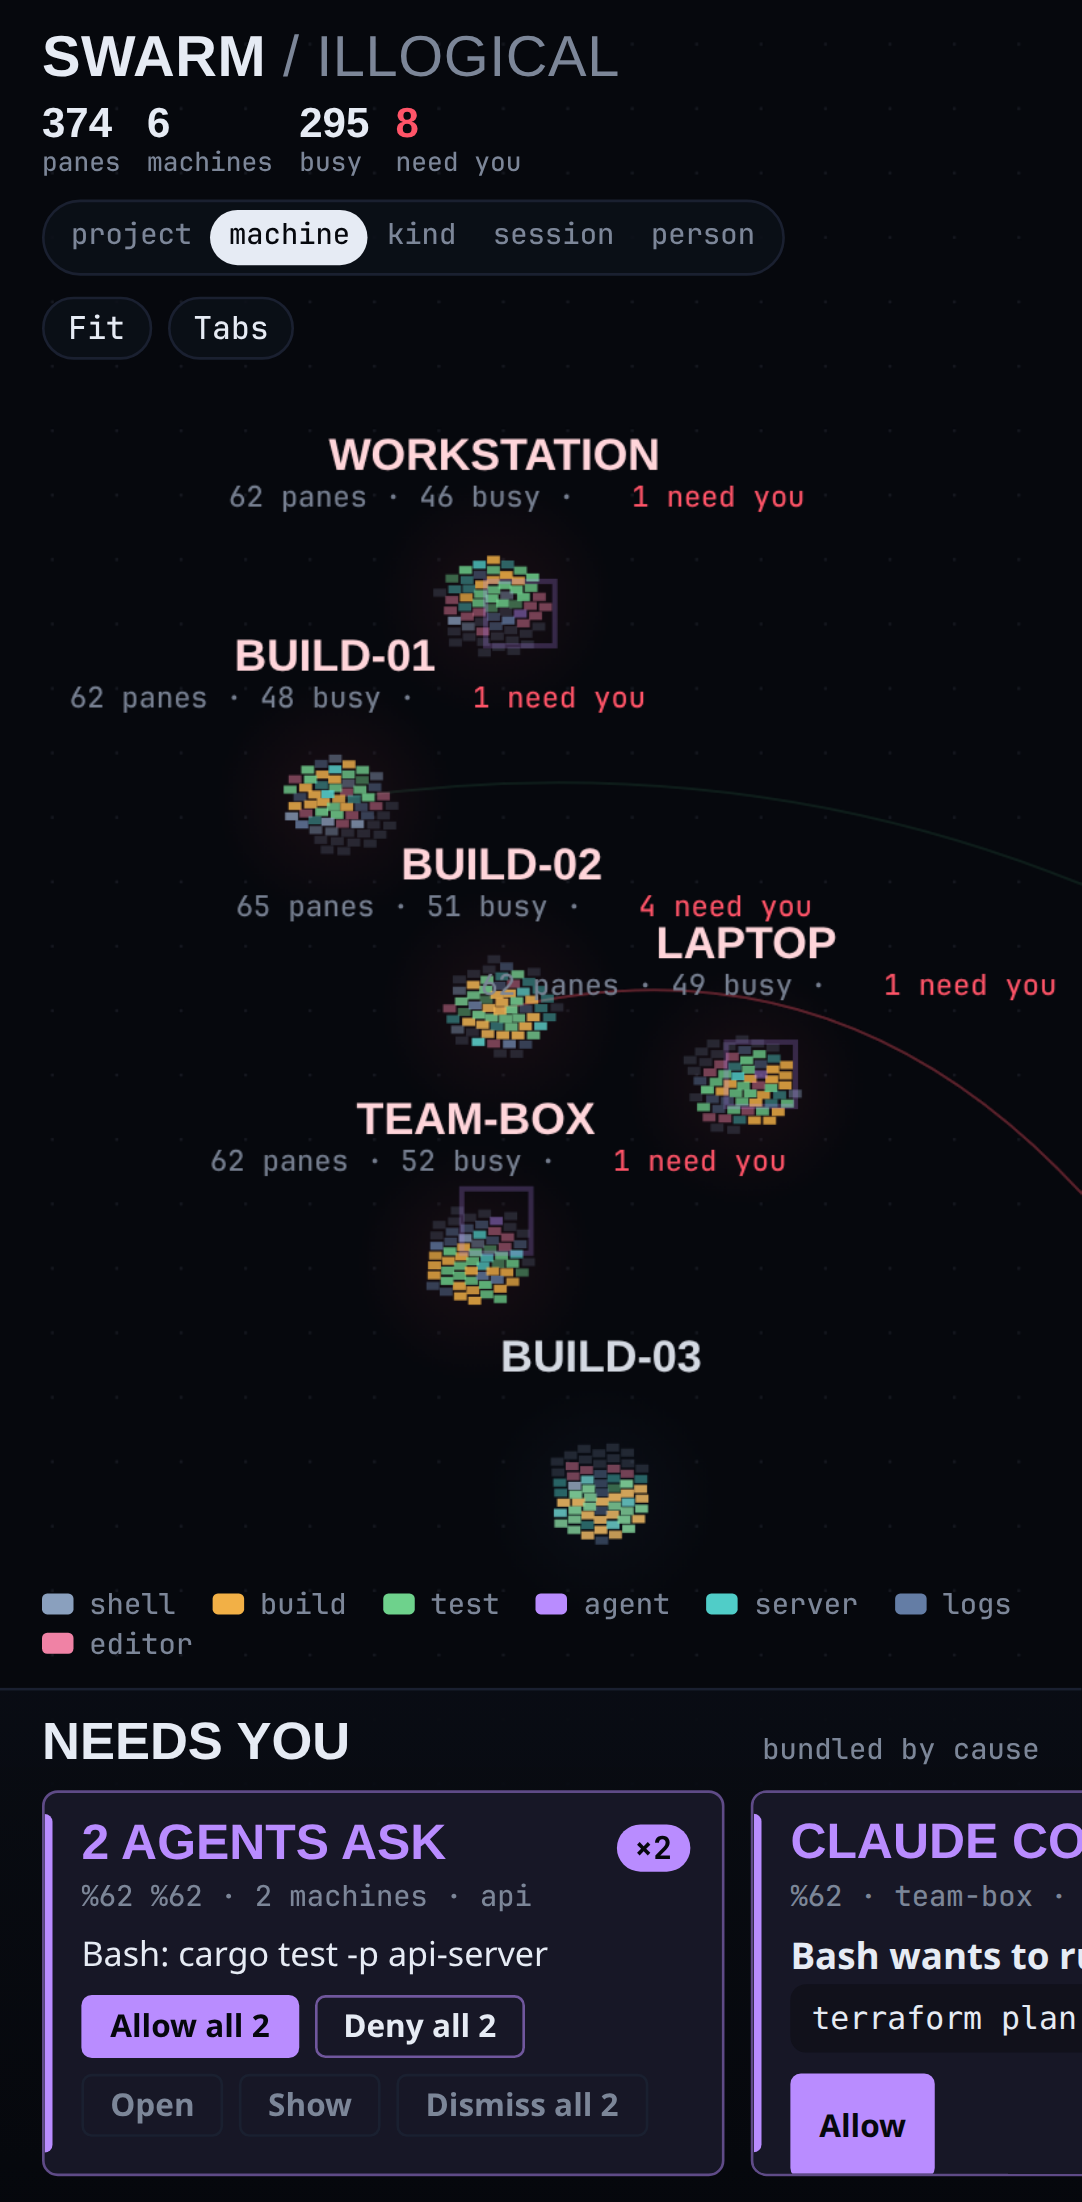
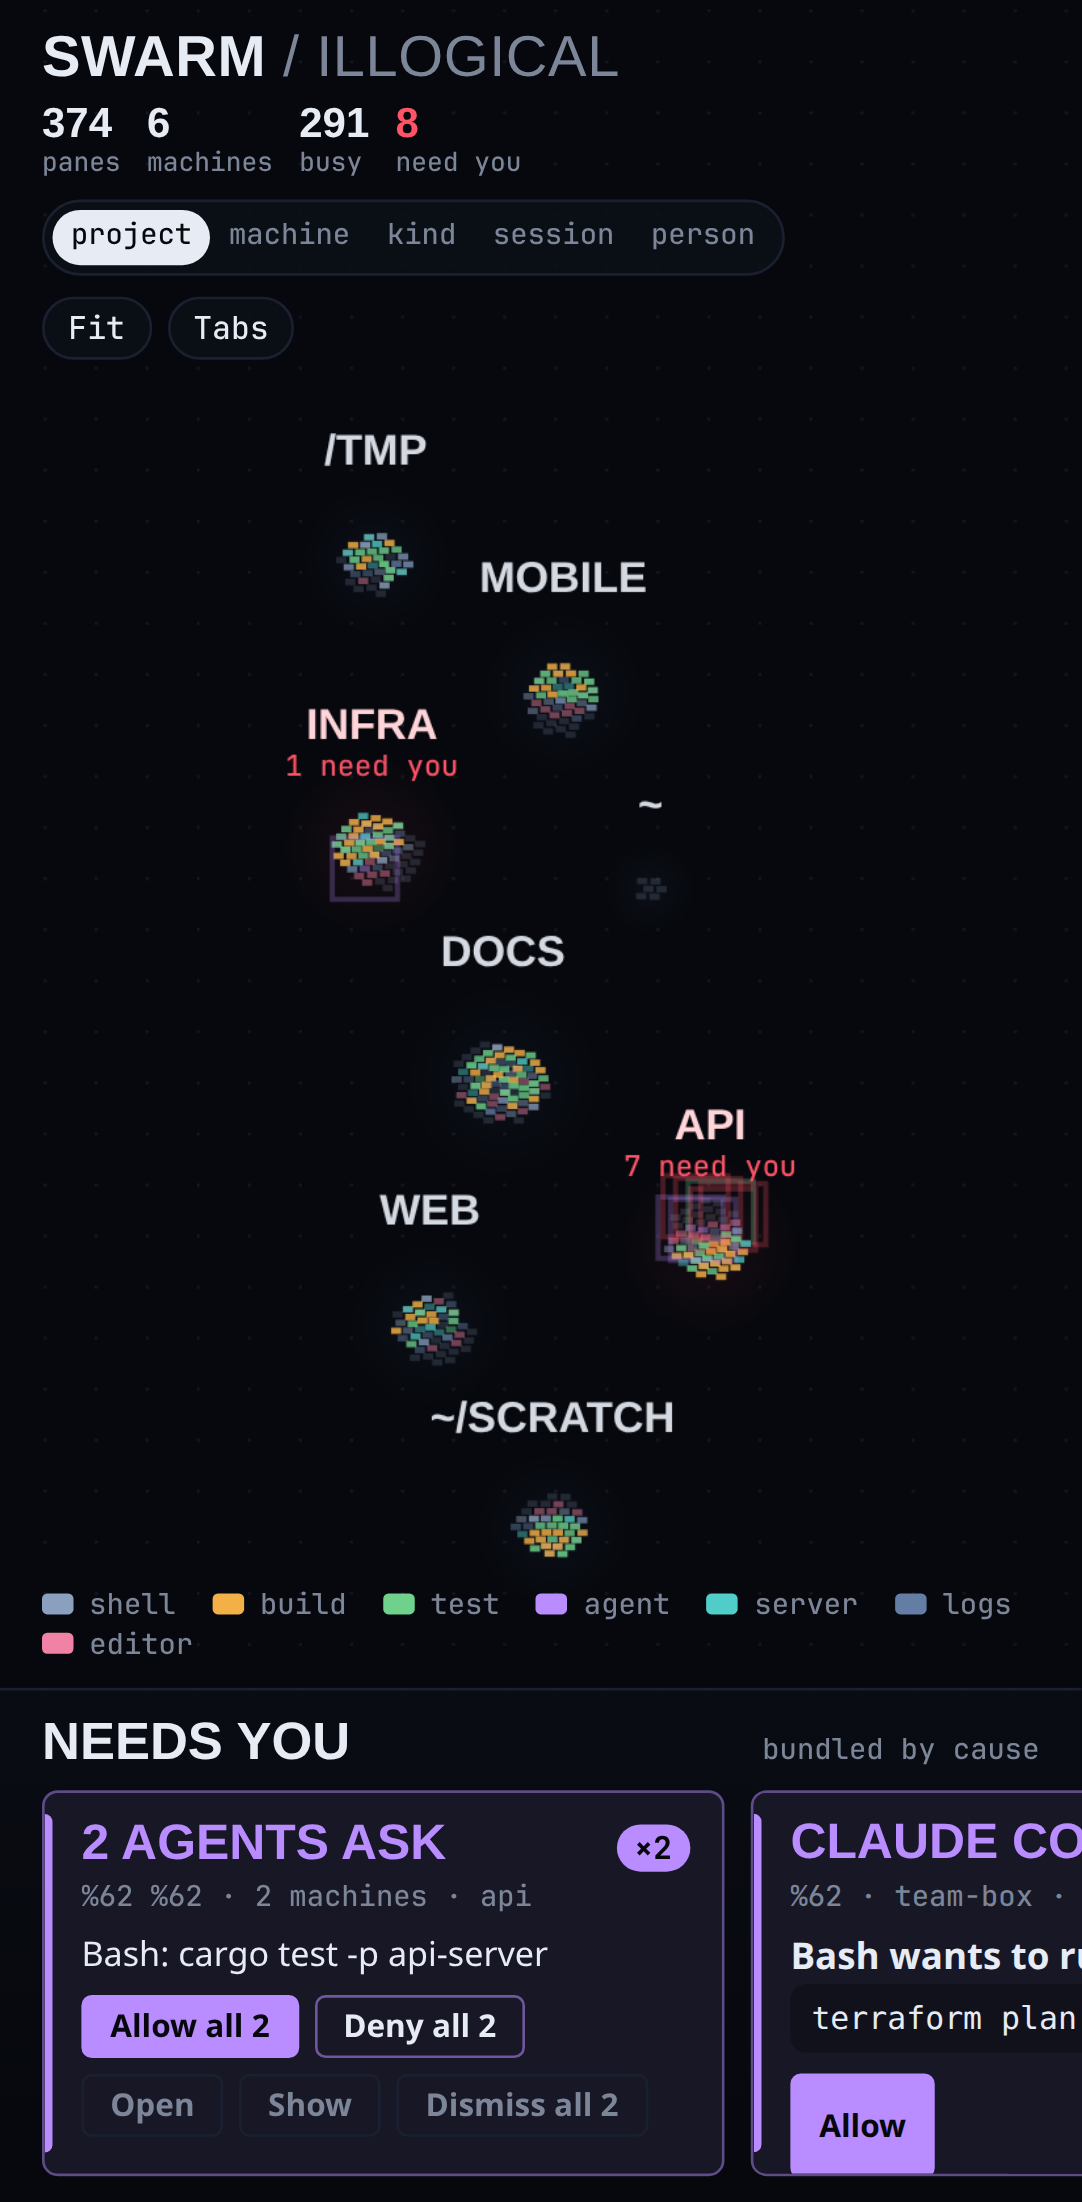
Swarm: cluster names never overlap on a narrow screen
On a phone held upright clusters stack close together, and their names
ran into each other (a cluster's counts over the next one's name, a
stats line lost under another). Each frame now places the names in turn,
those that need you and the biggest first: the full line, then without
"· N busy", then the name and "N need you", then the name alone, then
nudged up or down. Clicks on a name use the placed box. Upright, the
layout also leaves more room between clusters for their names.

e2e/swarm.spec.ts checks at a Pixel 7 viewport that no two names' boxes
intersect, by project and by machine, through a regroup and after it
settles, with the synthetic fleet crowding it. It fails on the old
drawing ("~/Downloads × dotfiles").

The phone screenshot is by project again. The fake fleet's cleanup
tolerates pane programs still writing as it removes its directory.

diff --git a/web/src/swarm/field.ts b/web/src/swarm/field.ts
@@ -72,6 +72,22 @@ const rnd = (a: number, b: number) => a + Math.random() * (b - a);
 const reduce = typeof matchMedia === "function" && matchMedia("(prefers-reduced-motion: reduce)").matches;
 
 /** Stub lengths for a tile's lines, steady per pane (no live text yet). */
+const META_FONT = `500 11px "JetBrains Mono", ui-monospace, monospace`;
+
+/** A cluster's name as drawn, and the box it takes on the screen. */
+interface Label {
+  name: string;
+  title: string;
+  meta: string;
+  needText: string;
+  need: number;
+  big: number;
+  metaW: number;
+  x: number;
+  y: number;
+  box: { x0: number; x1: number; y0: number; y1: number };
+}
+
 function stubs(key: string): number[] {
   let h = 2166136261;
   for (let i = 0; i < key.length; i++) h = Math.imul(h ^ key.charCodeAt(i), 16777619);
@@ -82,6 +98,8 @@ export class Field {
   private cx: CanvasRenderingContext2D;
   private tiles = new Map<string, Tile>();
   private groups = new Map<string, Group>();
+  /** Cluster names as last drawn. */
+  private labels: Label[] = [];
   private W = 0;
   private H = 0;
   private dpr = 1;
@@ -203,7 +221,9 @@ export class Field {
           const a = i * 2.39996 + d * 0.004;
           tx = Math.cos(a) * d * sx;
           ty = Math.sin(a) * d * sy;
-          if (placed.every((q) => Math.hypot(q.tx - tx, q.ty - ty) > q.r + r + 70)) break;
+          // Upright, names sit between clusters stacked above each other:
+          // leave room for them.
+          if (placed.every((q) => Math.hypot(q.tx - tx, q.ty - ty) > q.r + r + (tall ? 150 : 70))) break;
         }
       }
       let g = this.groups.get(name);
@@ -233,11 +253,22 @@ export class Field {
     return { x: s.x + r.left, y: s.y + r.top };
   }
 
+  /** Each cluster name's box on the page as last drawn (tests check none
+   * overlap), and what of it was shown. */
+  get labelBoxes(): { name: string; x0: number; y0: number; x1: number; y1: number; meta: string; need: string }[] {
+    const r = this.cv.getBoundingClientRect();
+    return this.labels.map((l) => ({
+      name: l.name, meta: l.meta, need: l.needText,
+      x0: l.box.x0 + r.left, x1: l.box.x1 + r.left, y0: l.box.y0 + r.top, y1: l.box.y1 + r.top,
+    }));
+  }
+
   /** Where a cluster's name is on the screen now. */
   labelOf(name: string): { x: number; y: number } | null {
     const g = this.groups.get(name);
     if (!g) return null;
-    const s = this.toScreen(g.x, g.y - g.r);
+    const l = this.labels.find((l) => l.name === name);
+    const s = l ? { x: l.x, y: l.y } : this.toScreen(g.x, g.y - g.r);
     const r = this.cv.getBoundingClientRect();
     return { x: s.x + r.left, y: s.y + r.top - 14 };
   }
@@ -410,11 +441,8 @@ export class Field {
   }
 
   private labelAt(sx: number, sy: number): string | null {
-    for (const [name, g] of this.groups) {
-      const s = this.toScreen(g.x, g.y - g.r);
-      if (Math.abs(sx - s.x) < 90 && sy > s.y - 40 && sy < s.y + 4) return name;
-    }
-    return null;
+    const l = this.labels.find((l) => sx >= l.box.x0 && sx <= l.box.x1 && sy >= l.box.y0 && sy <= l.box.y1);
+    return l?.name ?? null;
   }
 
   private hover(e: PointerEvent) {
@@ -712,28 +740,93 @@ export class Field {
       cx.shadowBlur = 0;
     }
 
-    // Cluster names.
-    for (const [name, g] of this.groups) {
-      const s = this.toScreen(g.x, g.y - g.r);
-      const big = clamp(14 + z * 10, 14, 30);
+    // Cluster names, placed so no two overlap (a phone held upright puts
+    // clusters close together): each tries its full line, then without
+    // "· N busy", then its name alone, then nudged up or down.
+    this.labels = this.placeLabels(z);
+    for (const l of this.labels) {
       cx.textAlign = "center";
-      cx.font = `800 ${big}px "Big Shoulders Display", "Arial Narrow", sans-serif`;
-      cx.fillStyle = g.need ? "#ffd5da" : "rgba(230,235,244,.92)";
-      cx.fillText(name.toUpperCase(), s.x, s.y - 12);
-      // Far out on a small screen, the counts would only collide.
-      if (z < 0.45 && W < 760 && !g.need) {
+      cx.font = `800 ${l.big}px "Big Shoulders Display", "Arial Narrow", sans-serif`;
+      cx.fillStyle = l.need ? "#ffd5da" : "rgba(230,235,244,.92)";
+      cx.fillText(l.title, l.x, l.y - 12);
+      if (l.meta || l.needText) {
+        cx.font = META_FONT;
         cx.textAlign = "start";
-        continue;
-      }
-      cx.font = `500 11px "JetBrains Mono", ui-monospace, monospace`;
-      cx.fillStyle = "rgba(124,134,152,.95)";
-      const meta = `${g.n} pane${g.n === 1 ? "" : "s"} · ${g.busy} busy` + (g.need ? " · " : "");
-      cx.fillText(meta + (g.need ? "   " : ""), s.x - (g.need ? 22 : 0), s.y + 2);
-      if (g.need) {
-        cx.fillStyle = "#ff5468";
-        cx.fillText(`${g.need} need you`, s.x + cx.measureText(meta).width / 2 + 16, s.y + 2);
+        let x = l.x - l.metaW / 2;
+        if (l.meta) {
+          cx.fillStyle = "rgba(124,134,152,.95)";
+          cx.fillText(l.meta, x, l.y + 2);
+          x += cx.measureText(l.meta).width;
+        }
+        if (l.needText) {
+          cx.fillStyle = "#ff5468";
+          cx.fillText(l.needText, x, l.y + 2);
+        }
       }
       cx.textAlign = "start";
     }
+  }
+
+  /** Where each cluster's name goes this frame, and what of it fits. */
+  private placeLabels(z: number): Label[] {
+    const { cx, W } = this;
+    const big = clamp(14 + z * 10, 14, 30);
+    const placed: Label[] = [];
+    const hits = (l: Label) =>
+      placed.some((q) => l.box.x0 < q.box.x1 && q.box.x0 < l.box.x1 && l.box.y0 < q.box.y1 && q.box.y0 < l.box.y1);
+    // Clusters that need you first, then the biggest: they keep the most.
+    const order = [...this.groups].sort(([, a], [, b]) => b.need - a.need || b.n - a.n);
+    for (const [name, g] of order) {
+      const s = this.toScreen(g.x, g.y - g.r);
+      const title = name.toUpperCase();
+      cx.font = `800 ${big}px "Big Shoulders Display", "Arial Narrow", sans-serif`;
+      const titleW = cx.measureText(title).width;
+      cx.font = META_FONT;
+      const panes = `${g.n} pane${g.n === 1 ? "" : "s"}`;
+      const needText = g.need ? `${g.need} need you` : "";
+      // Far out on a small screen, the counts would only crowd it.
+      const terse = z < 0.45 && W < 760;
+      const variants: [string, string][] = [
+        ...(terse ? [] : [[`${panes} · ${g.busy} busy${needText ? " · " : ""}`, needText] as [string, string]]),
+        ...(needText ? [[terse ? "" : `${panes} · `, needText] as [string, string], ["", needText] as [string, string]] : []),
+        ...(!terse && !needText ? [[panes, ""] as [string, string]] : []),
+        ["", ""],
+      ];
+      const make = (meta: string, need: string, dy: number): Label => {
+        cx.font = META_FONT;
+        const metaW = cx.measureText(meta + need).width;
+        const lines = meta || need;
+        const w = Math.max(titleW, metaW) + 8;
+        const y = s.y + dy;
+        return {
+          name, title, meta, needText: need, need: g.need, big, metaW, x: s.x, y,
+          box: { x0: s.x - w / 2, x1: s.x + w / 2, y0: y - 12 - big * 0.85, y1: lines ? y + 6 : y - 8 },
+        };
+      };
+      let chosen: Label | null = null;
+      for (const [meta, need] of variants) {
+        const l = make(meta, need, 0);
+        if (!hits(l)) {
+          chosen = l;
+          break;
+        }
+      }
+      // Still in the way: the shortest form, nudged up or down a little.
+      if (!chosen) {
+        const [meta, need] = variants[variants.length - (needText ? 2 : 1)];
+        for (let k = 1; k <= 8 && !chosen; k++) {
+          for (const dy of [-k * 9, k * 9]) {
+            const l = make(meta, need, dy);
+            if (!hits(l)) {
+              chosen = l;
+              break;
+            }
+          }
+        }
+        chosen ??= make("", "", 0);
+      }
+      placed.push(chosen);
+    }
+    return placed;
   }
 }

diff --git a/web/e2e/swarm.spec.ts b/web/e2e/swarm.spec.ts
@@ -219,6 +219,38 @@ test.describe("phone", () => {
   const { viewport, userAgent, deviceScaleFactor, isMobile, hasTouch } = devices["Pixel 7"];
   test.use({ viewport, userAgent, deviceScaleFactor, isMobile, hasTouch });
 
+  test("cluster names never overlap on a phone, by project or by machine", async ({ page }) => {
+    await swarm(page);
+    // Crowd it: the synthetic fleet adds projects and machines beside the
+    // real ones, and a few need you, so labels carry their longest lines.
+    const stop = await page.evaluateHandle(() => window.__illogical.swarmFake(300));
+    await fake.trouble("build-02", 2);
+    type Box = { name: string; x0: number; y0: number; x1: number; y1: number };
+    const overlaps = async () => {
+      const boxes: Box[] = await page.evaluate(() => (window.__illogical.swarm as unknown as { labelBoxes: Box[] }).labelBoxes);
+      const out: string[] = [];
+      for (let i = 0; i < boxes.length; i++)
+        for (let j = i + 1; j < boxes.length; j++) {
+          const [a, b] = [boxes[i], boxes[j]];
+          if (a.x0 < b.x1 && b.x0 < a.x1 && a.y0 < b.y1 && b.y0 < a.y1) out.push(`${a.name} × ${b.name}`);
+        }
+      return { n: boxes.length, out };
+    };
+    for (const by of ["project", "machine"]) {
+      await page.locator(`[data-g="${by}"]`).click();
+      await page.locator("[data-fit]").tap();
+      // Through the regroup's animation and after it settles.
+      for (let i = 0; i < 12; i++) {
+        await page.waitForTimeout(400);
+        const { n, out } = await overlaps();
+        expect(n, `${by}: clusters drawn`).toBeGreaterThanOrEqual(6);
+        expect(out, `${by}: overlapping names`).toEqual([]);
+      }
+    }
+    await stop.evaluate((f) => f());
+    await clearRail(page);
+  });
+
   test("cards along the bottom: allow and dismiss there; pinch zooms; a tap opens a pane", async ({ page }) => {
     await swarm(page);
     await clearRail(page);

diff --git a/site/index.html b/site/index.html
@@ -204,7 +204,7 @@
       </picture>
       <picture>
         <source srcset="img/swarm-phone.webp" type="image/webp">
-        <img class="shot" src="img/swarm-phone.png" width="1082" height="2202" loading="lazy" alt="The swarm on a phone: six machines' panes clustered by machine, and what needs you as a strip of cards along the bottom">
+        <img class="shot" src="img/swarm-phone.png" width="1082" height="2202" loading="lazy" alt="The swarm on a phone: panes clustered by project, and what needs you as a strip of cards along the bottom">
       </picture>
     </div>
   </section>

diff --git a/web/screenshots/swarm.spec.ts b/web/screenshots/swarm.spec.ts
@@ -103,8 +103,7 @@ test.describe("phone", () => {
   const { viewport, userAgent, deviceScaleFactor, isMobile, hasTouch } = devices["Pixel 7"];
   test.use({ viewport, userAgent, deviceScaleFactor, isMobile, hasTouch });
   test("the swarm on a phone: cards along the bottom", async ({ page }) => {
-    // By machine: six clusters read better on a narrow screen.
-    await swarm(page, "machine");
+    await swarm(page);
     await page.screenshot({ path: join(out, "swarm-phone.png") });
   });
 });

diff --git a/web/e2e/fake-fleet.ts b/web/e2e/fake-fleet.ts
@@ -225,7 +225,12 @@ export class FakeFleet {
 
   stop() {
     for (const m of this.machines) m.proc.kill("SIGKILL");
-    rmSync(this.root, { recursive: true, force: true });
+    // Its panes' programs may still be writing for a moment.
+    try {
+      rmSync(this.root, { recursive: true, force: true, maxRetries: 10, retryDelay: 200 });
+    } catch {
+      // A scratch directory under /tmp: left to the system.
+    }
   }
 }
 
